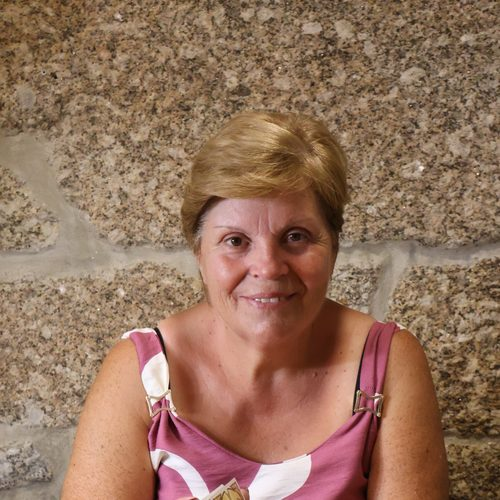
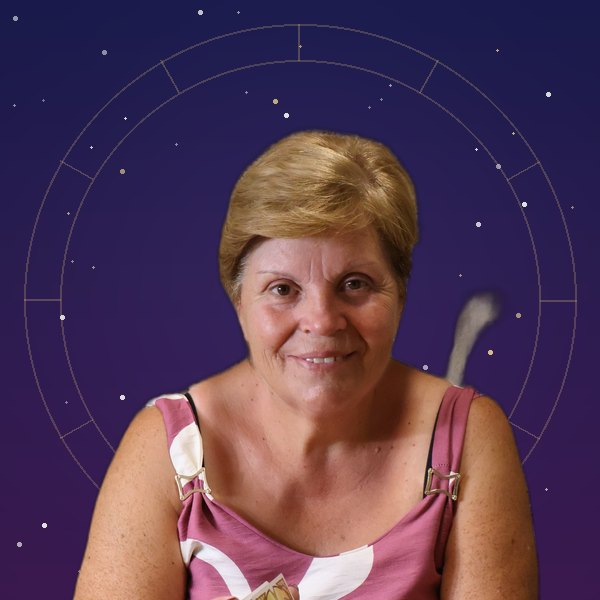
feat(ficha): fondo zodiacal en las fotos de Maria + tamaño 128px
Recorta a Maria del fondo (rembg) y compone un fondo zodiacal (noche
estrellada + rueda del zodiaco). En la foto de las manos se conservan las
cartas sobre el fondo estrellado. Reduce el carrusel de 140 a 128 px.

diff --git a/src/components/site/available-now.tsx b/src/components/site/available-now.tsx
@@ -117,7 +117,7 @@ function ConsultantCard({
       <div className="flex items-center gap-3">
         <div className="relative">
           {hasPhotos ? (
-            <RotatingPhotos3D photos={c.photos!} size={140} alt={c.name} />
+            <RotatingPhotos3D photos={c.photos!} size={128} alt={c.name} />
           ) : (
             <img
               src={c.avatar}
